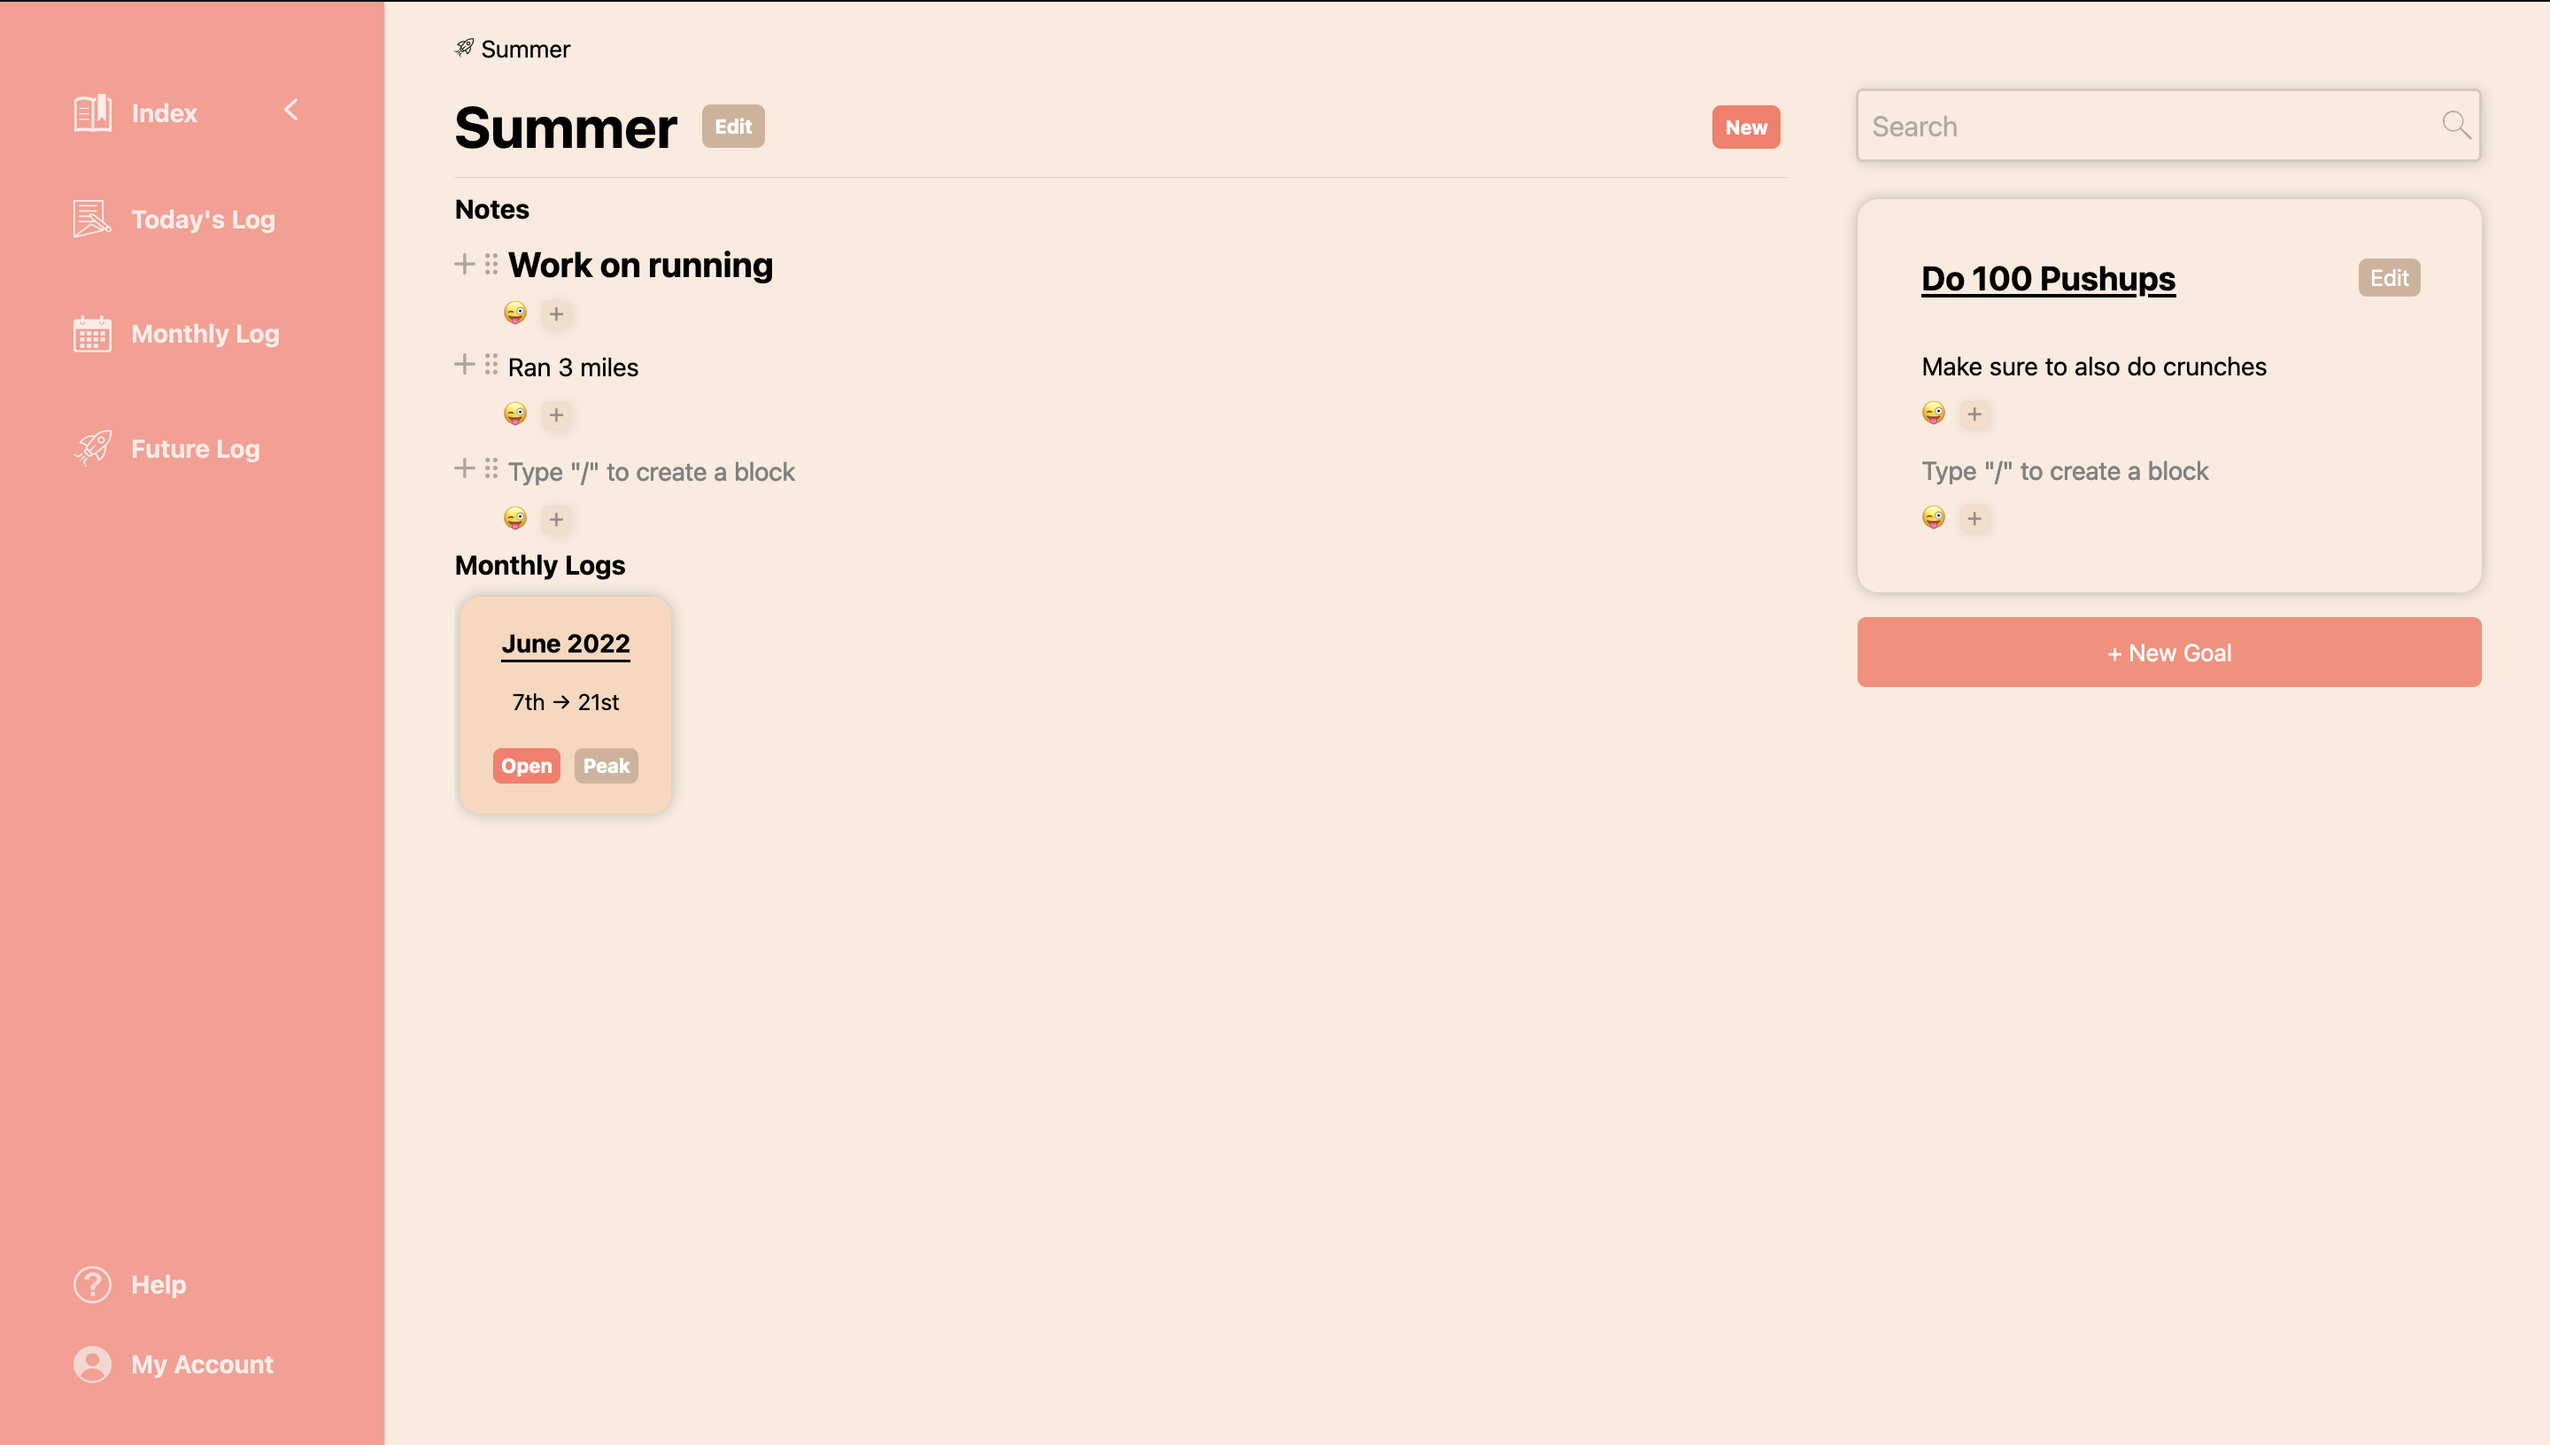
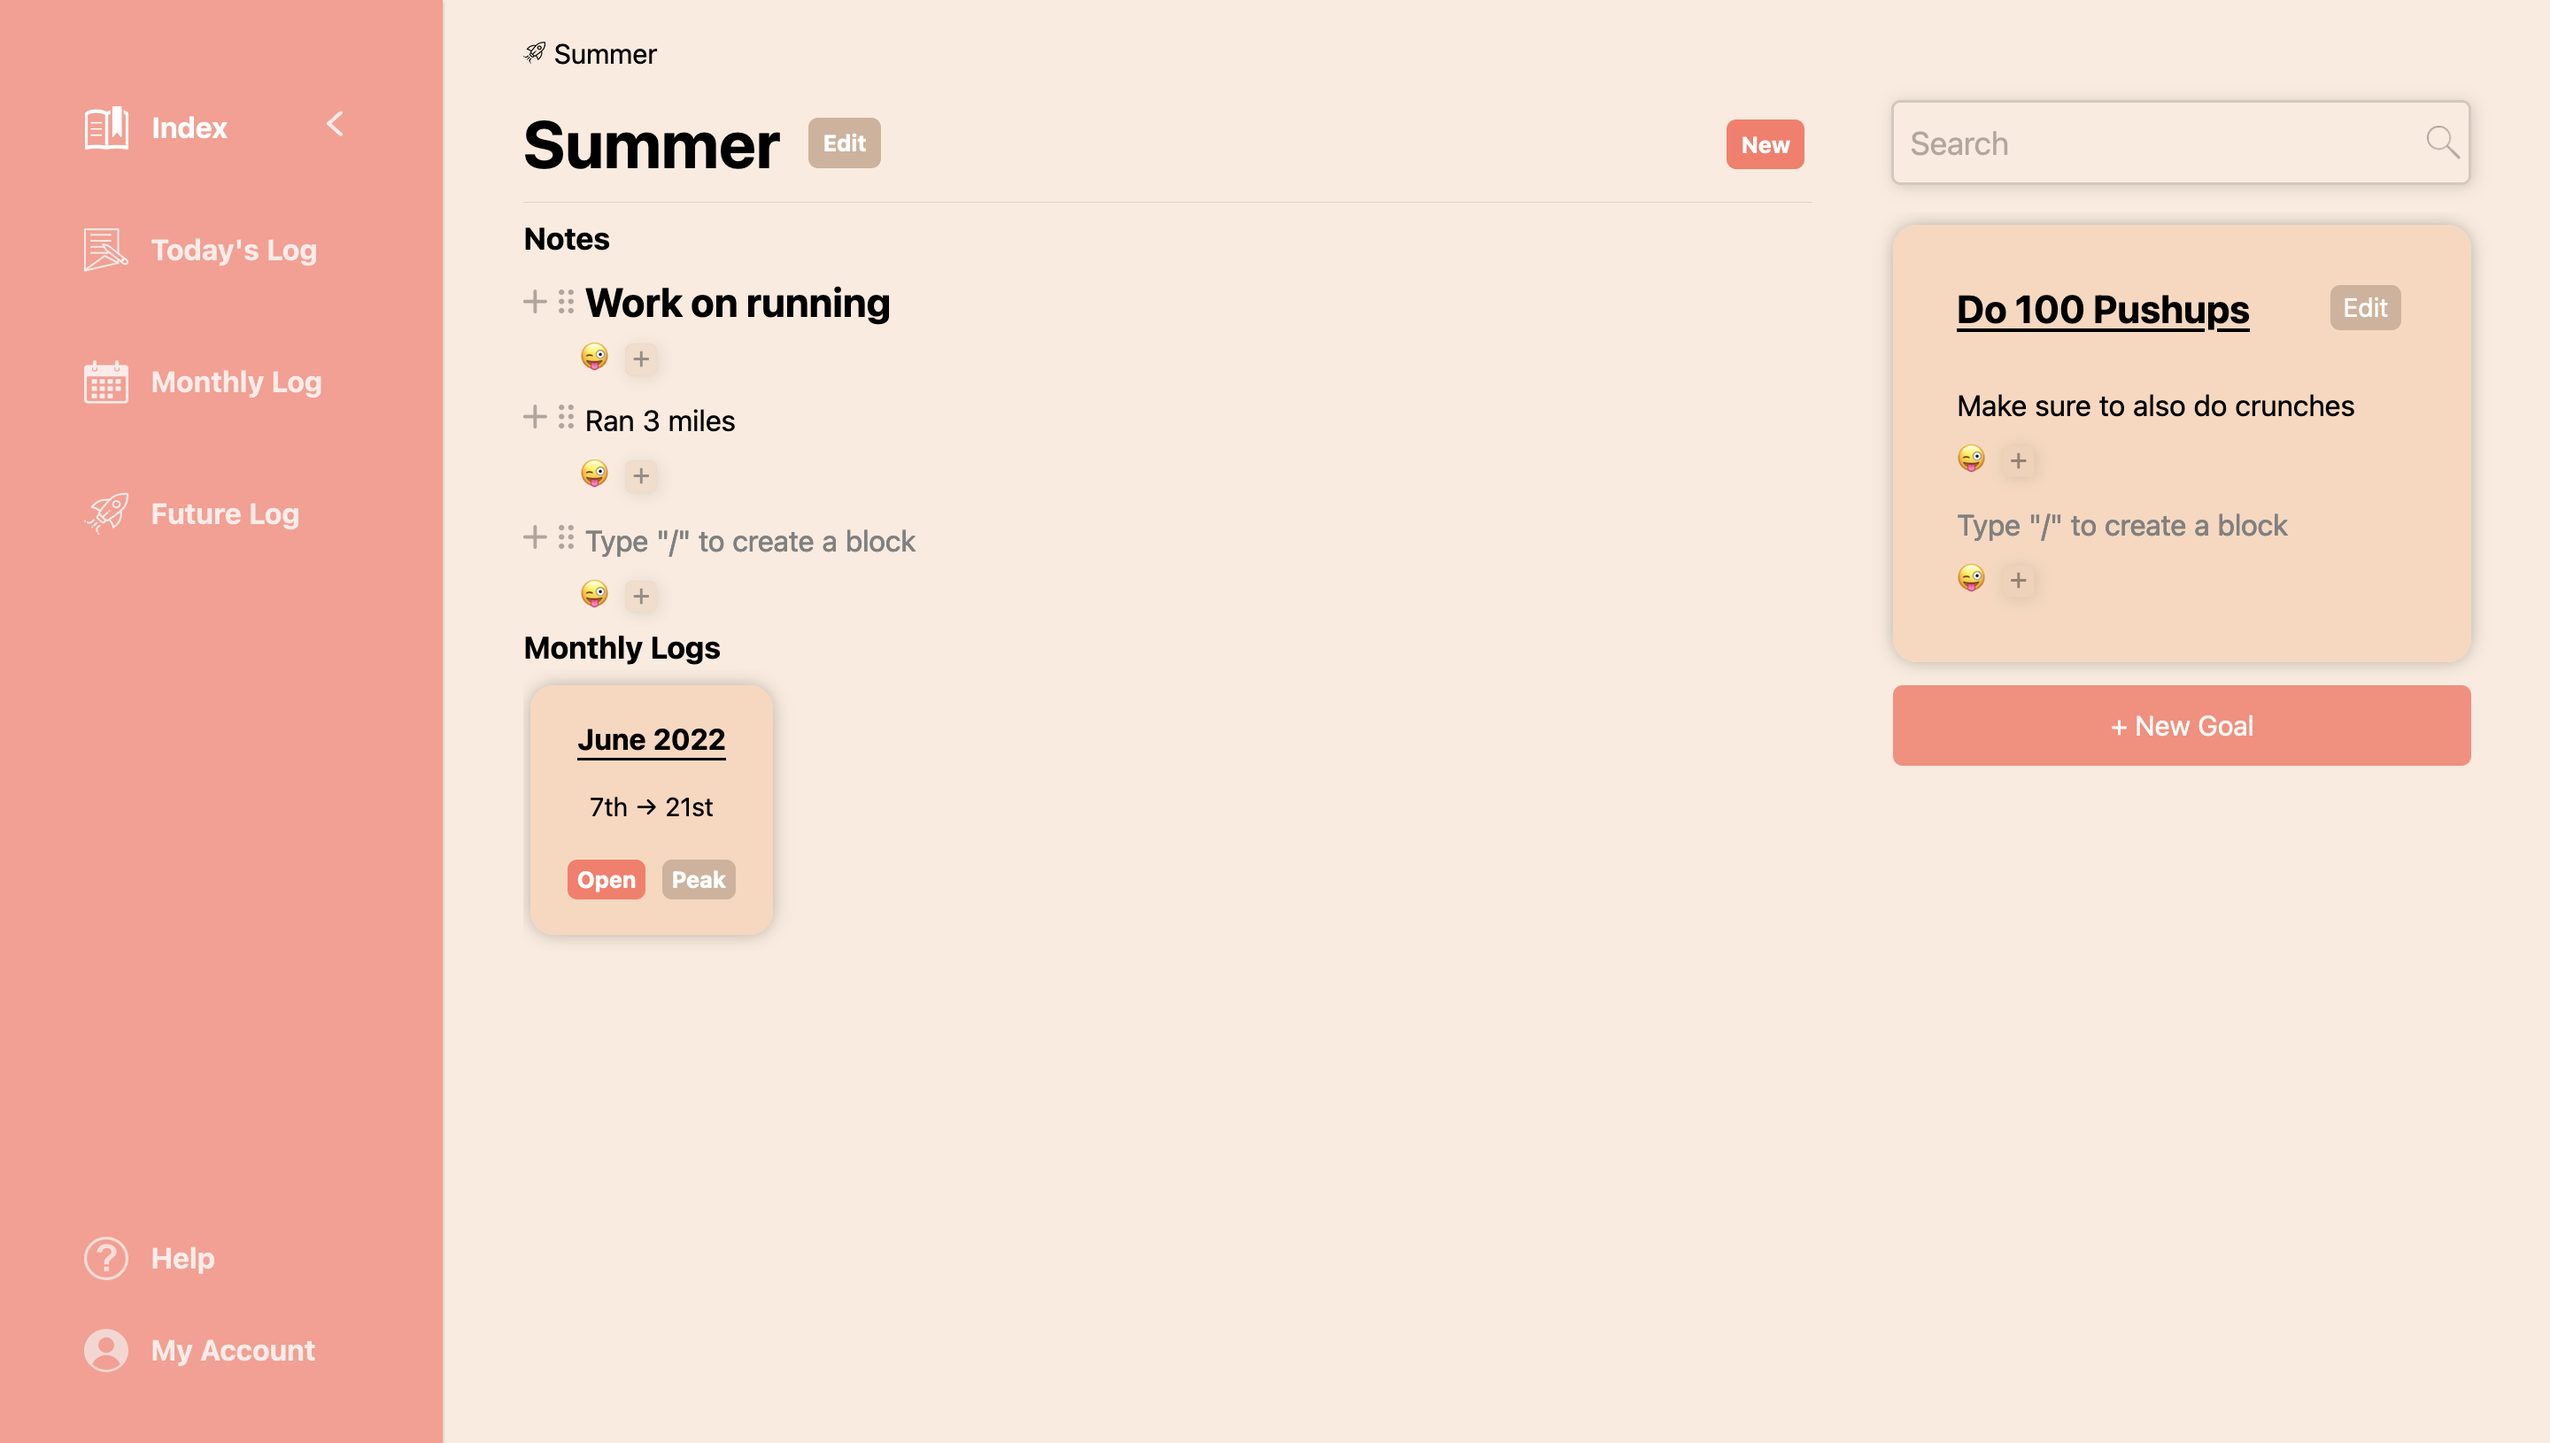
frontend/themePanel: fixed right card panel display

diff --git a/src/front-end/components/sideCard.css b/src/front-end/components/sideCard.css
@@ -1,5 +1,5 @@
 :host {
-	font-family:"SF-Pro";
+	font-family: system-ui;
 }
 .card{
     font-family: system-ui;
@@ -9,7 +9,7 @@
     justify-content: space-between;
     padding: 0 0 1rem;
     width: calc(100% - 98px);
-    background-color: var(--card-backgound);
+    background-color: var(--card-background);
     box-shadow: 0 0 10px var(--card-shadow);
     margin-top: 0.5vw;
     margin-bottom: 0.5vw;
